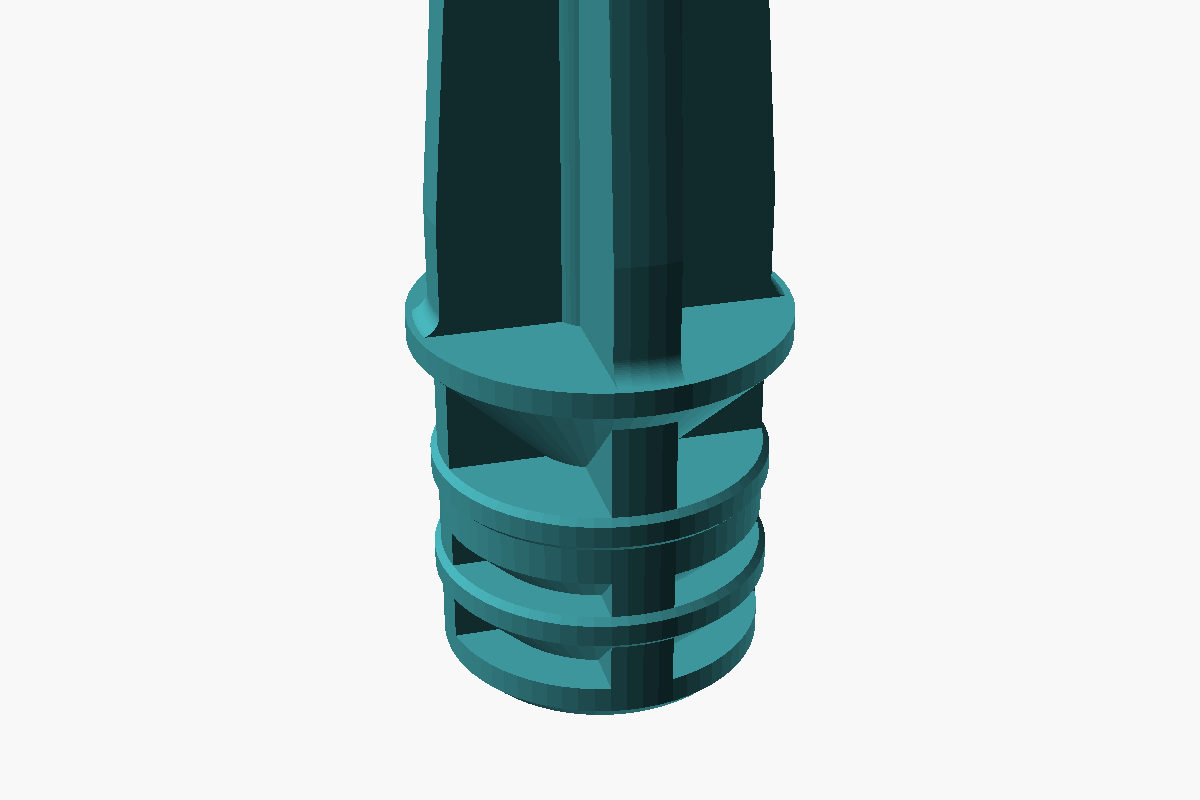
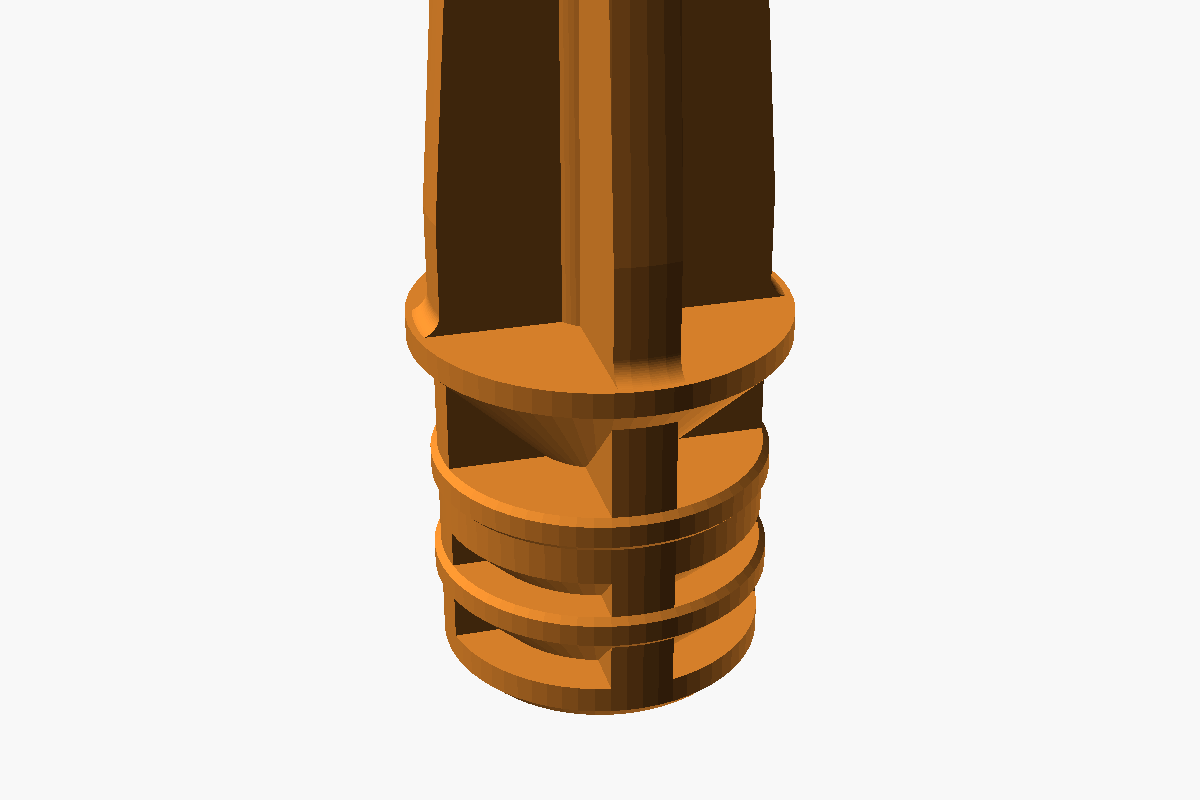
Add a gallery of model variants and render images from exported meshes
- docs/gallery/: spine counts (sectioned 30 mm up so the star reads),
  Support_free on and off seen from below, retention hardware (bare,
  tie band, grip rings, screw hole), 9/15/30 mm sizes at one scale, and
  a 900x900 connector close-up of each preset.
- tools/render_images.py: each variant is exported to STL once, then
  photographed as an imported mesh with one colour. Rendering the .scad
  directly tints faces cut by a subtraction yellow, which reads as a
  defect in a screenshot. Adds a section() step for cutaway views.
- docs/hero.png, presets.png, tips.png re-rendered with the new pipeline.
- README: new Gallery section, layout and contents updated.

Claude-Session: https://claude.ai/code/session_01GJV8Fma19aRLyfQViVbLHp

Changed region(s): [[0.3392, 0.0, 0.6783, 0.9062]]

diff --git a/tools/render_images.py b/tools/render_images.py
@@ -2,9 +2,18 @@
 """
 Regenerate the images in docs/ from the current model.
 
-  docs/hero.png       3/4 view of the connector end, "Round tube 15 mm ID" preset
-  docs/presets.png    the five saved presets side by side, near enough the same scale
-  docs/tips.png       cone, ogive and chisel tips, same length and point
+  docs/hero.png                 3/4 view of the connector end, "Round tube 15 mm ID"
+  docs/presets.png              the five saved presets side by side
+  docs/tips.png                 cone, ogive and chisel tips
+  docs/gallery/spines.png       0 (solid), 2, 3, 4, 6 and 8 spines
+  docs/gallery/support-free.png square and round, Support_free on and off, seen from below
+  docs/gallery/retention.png    bare, tie band, grip rings, screw hole
+  docs/gallery/sizes.png        9, 15 and 30 mm connectors at the same scale
+  docs/gallery/preset-*.png     a close-up of each saved preset
+
+Each variant is rendered to STL first and then photographed as an imported
+mesh. That gives every face one colour; rendering the .scad directly tints
+any surface cut by a subtraction yellow, which reads as a defect in a picture.
 
 Run it after any change that alters geometry, so the README never shows a part
 the .scad no longer makes.
@@ -19,6 +28,7 @@ Requires Python 3.8+, Pillow, OpenSCAD and BOSL2.
 import argparse
 import json
 import os
+import re
 import shutil
 import subprocess
 import sys
@@ -30,26 +40,76 @@ ROOT = os.path.dirname(os.path.dirname(os.path.abspath(__file__)))
 SCAD = os.path.join(ROOT, "yard-spike-parametric.scad")
 PRESETS = os.path.join(ROOT, "yard-spike-parametric.json")
 DOCS = os.path.join(ROOT, "docs")
+GALLERY = os.path.join(DOCS, "gallery")
 SCHEME = "Tomorrow"
+PART = "#d9822b"
 BG = (248, 248, 248)
 INK = (60, 60, 60)
 
+# Cameras are OpenSCAD --camera values: target x,y,z, rotation x,y,z, distance.
+# Rotation x is 0 looking straight down, 90 level, past 90 looking up.
+CONNECTOR = (0, 0, 5, 62, 0, 30, 90)      # 3/4 view of the connector end
+UNDERSIDE = (0, 0, 4, 112, 0, 30, 85)     # looking up at the plates
+STANDING = (0, 0, 0, 80, 0, 30, 0)        # whole part, fitted to the frame
+TIP = (0, 0, 106, 80, 0, 35, 70)          # the last 15 mm
 
-def render(openscad, out, size, camera, preset=None, defines=None, ortho=False, fit=False):
-    cmd = [openscad, "-o", out, "--render", f"--imgsize={size[0]},{size[1]}",
-           f"--camera={','.join(str(c) for c in camera)}", f"--colorscheme={SCHEME}"]
-    if ortho:
-        cmd.append("--projection=o")
-    if fit:
-        cmd += ["--viewall", "--autocenter"]
-    if preset:
-        cmd += ["-p", PRESETS, "-P", preset]
-    for key, value in (defines or {}).items():
-        cmd += ["-D", f"{key}={value}"]
-    cmd.append(SCAD)
-    proc = subprocess.run(cmd, capture_output=True, text=True)
-    if proc.returncode != 0 or not os.path.exists(out):
-        sys.exit(f"OpenSCAD failed on {out}:\n{proc.stdout}{proc.stderr}")
+
+class Renderer:
+    def __init__(self, openscad, tmp):
+        self.openscad = openscad
+        self.tmp = tmp
+        self.meshes = {}
+
+    def run(self, args, what):
+        proc = subprocess.run([self.openscad] + args, capture_output=True, text=True)
+        if proc.returncode != 0:
+            sys.exit(f"OpenSCAD failed on {what}:\n{proc.stdout}{proc.stderr}")
+
+    def mesh(self, preset=None, **defines):
+        """STL for one configuration, rendered once and reused."""
+        key = (preset, tuple(sorted(defines.items())))
+        if key not in self.meshes:
+            out = os.path.join(self.tmp, f"part{len(self.meshes)}.stl")
+            args = ["-o", out]
+            if preset:
+                args += ["-p", PRESETS, "-P", preset]
+            for name, value in defines.items():
+                if isinstance(value, bool):
+                    value = "true" if value else "false"
+                elif isinstance(value, str):
+                    value = f'"{value}"'
+                args += ["-D", f"{name}={value}"]
+            self.run(args + [SCAD], preset or str(defines))
+            self.meshes[key] = out
+        return self.meshes[key]
+
+    def section(self, stl, z):
+        """The same part cut off flat at height z, as a new STL. Cutting in a
+        separate export keeps the cut face the same colour as the rest."""
+        n = len(os.listdir(self.tmp))
+        wrapper = os.path.join(self.tmp, f"cut{n}.scad")
+        out = os.path.join(self.tmp, f"cut{n}.stl")
+        with open(wrapper, "w", encoding="utf-8") as f:
+            f.write(f'intersection() {{ import("{stl.replace(os.sep, "/")}"); '
+                    f"translate([-500, -500, -500]) cube([1000, 1000, {500 + z}]); }}\n")
+        self.run(["-o", out, wrapper], stl)
+        return out
+
+    def shot(self, stl, size, camera, ortho=False, fit=False):
+        """Photograph an STL and return the image."""
+        n = len(os.listdir(self.tmp))
+        wrapper = os.path.join(self.tmp, f"shot{n}.scad")
+        png = os.path.join(self.tmp, f"shot{n}.png")
+        with open(wrapper, "w", encoding="utf-8") as f:
+            f.write(f'color("{PART}") import("{stl.replace(os.sep, "/")}");\n')
+        args = ["-o", png, f"--imgsize={size[0]},{size[1]}",
+                f"--camera={','.join(str(c) for c in camera)}", f"--colorscheme={SCHEME}"]
+        if ortho:
+            args.append("--projection=o")
+        if fit:
+            args += ["--viewall", "--autocenter"]
+        self.run(args + [wrapper], stl)
+        return Image.open(png).convert("RGB")
 
 
 def font(size):
@@ -61,21 +121,27 @@ def font(size):
     return ImageFont.load_default()
 
 
-def strip(tiles, labels, pad=24, label_h=64):
+def strip(tiles, labels, pad=20):
     """Lay tiles out left to right with a caption under each."""
+    f = font(26)
+    lines = max(len(label.split("\n")) for label in labels)
+    label_h = 12 + lines * 32
     w = sum(t.width for t in tiles)
     h = max(t.height for t in tiles) + label_h + pad
     sheet = Image.new("RGB", (w, h), BG)
     draw = ImageDraw.Draw(sheet)
-    f = font(26)
     x = 0
     for tile, label in zip(tiles, labels):
         sheet.paste(tile, (x, 0))
         for i, line in enumerate(label.split("\n")):
             tw = draw.textlength(line, font=f)
-            draw.text((x + (tile.width - tw) / 2, tile.height + 4 + i * 30), line, fill=INK, font=f)
+            draw.text((x + (tile.width - tw) / 2, tile.height + 6 + i * 32), line, fill=INK, font=f)
         x += tile.width
     return sheet
+
+
+def slug(name):
+    return re.sub(r"[^a-z0-9]+", "-", name.lower()).strip("-")
 
 
 def main():
@@ -85,37 +151,72 @@ def main():
     if shutil.which(args.openscad) is None and not os.path.exists(args.openscad):
         sys.exit(f"OpenSCAD not found at '{args.openscad}'. Pass --openscad or set OPENSCAD.")
 
-    os.makedirs(DOCS, exist_ok=True)
+    os.makedirs(GALLERY, exist_ok=True)
     tmp = tempfile.mkdtemp(prefix="spike-img-")
+    r = Renderer(args.openscad, tmp)
+    written = []
+
+    def save(img, *path):
+        out = os.path.join(DOCS, *path)
+        img.save(out)
+        written.append(os.path.relpath(out, ROOT).replace(os.sep, "/"))
+
     try:
-        # Hero: the connector end is where all the detail lives.
-        render(args.openscad, os.path.join(DOCS, "hero.png"), (1200, 800),
-               (0, 0, 5, 62, 0, 30, 90), preset="Round tube 15 mm ID")
-
-        # Presets. All five are within a few mm of the same length, so fitting
-        # each to its tile keeps them at near enough the same scale.
         with open(PRESETS, encoding="utf-8") as f:
-            names = list(json.load(f)["parameterSets"].keys())
-        tiles = []
-        for i, name in enumerate(names):
-            out = os.path.join(tmp, f"preset{i}.png")
-            render(args.openscad, out, (300, 1000), (0, 0, 0, 80, 0, 30, 0),
-                   preset=name, ortho=True, fit=True)
-            tiles.append(Image.open(out).convert("RGB"))
-        labels = [n.replace(", ", ",\n").replace(" 15 mm", "\n15 mm") for n in names]
-        strip(tiles, labels, label_h=70).save(os.path.join(DOCS, "presets.png"))
+            presets = list(json.load(f)["parameterSets"].keys())
 
-        # Tips at stock length and point diameter, looking up at the point.
-        tiles = []
-        for style in ("cone", "ogive", "chisel"):
-            out = os.path.join(tmp, f"tip-{style}.png")
-            render(args.openscad, out, (420, 520), (0, 0, 106, 80, 0, 35, 70),
-                   defines={"Tip_style": f'"{style}"', "Connector_shape": '"circle"'})
-            tiles.append(Image.open(out).convert("RGB"))
-        strip(tiles, ["Cone", "Ogive", "Chisel"], label_h=40).save(os.path.join(DOCS, "tips.png"))
+        # Hero: the connector end is where all the detail lives.
+        save(r.shot(r.mesh("Round tube 15 mm ID"), (1200, 800), CONNECTOR), "hero.png")
+
+        # Presets, whole part. They are all within a few mm of the same
+        # length, so fitting each to its tile keeps them at a common scale.
+        tiles = [r.shot(r.mesh(p), (300, 1000), STANDING, ortho=True, fit=True) for p in presets]
+        labels = [p.replace(", ", ",\n").replace(" 15 mm", "\n15 mm") for p in presets]
+        save(strip(tiles, labels), "presets.png")
+
+        # One close-up per preset.
+        for p in presets:
+            save(r.shot(r.mesh(p), (900, 900), CONNECTOR), "gallery", f"preset-{slug(p)}.png")
+
+        # Tips at stock length and point diameter.
+        tiles = [r.shot(r.mesh(Connector_shape="circle", Tip_style=s), (420, 520), TIP)
+                 for s in ("cone", "ogive", "chisel")]
+        save(strip(tiles, ["Cone", "Ogive", "Chisel"]), "tips.png")
+
+        # Spine counts, cut off 30 mm up so the cross section reads as a star.
+        counts = [0, 2, 3, 4, 6, 8]
+        tiles = [r.shot(r.section(r.mesh(Spines=n), 30), (360, 460), (0, 0, 12, 30, 0, 30, 105))
+                 for n in counts]
+        labels = ["Solid\nSpines = 0"] + [f"{n} spines\n " for n in counts[1:]]
+        save(strip(tiles, labels), "gallery", "spines.png")
+
+        # Support_free on and off, looking up at the undersides.
+        combos = [("square", True), ("square", False), ("circle", True), ("circle", False)]
+        tiles = [r.shot(r.mesh(Connector_shape=s, Support_free=sf, Tie_band=False), (420, 460), UNDERSIDE)
+                 for s, sf in combos]
+        labels = [f"{'Square' if s == 'square' else 'Round'}\nSupport_free {'on' if sf else 'off'}"
+                  for s, sf in combos]
+        save(strip(tiles, labels), "gallery", "support-free.png")
+
+        # Retention hardware, building up on a round connector.
+        steps = [
+            ("Bare\n ", dict(Tie_band=False)),
+            ("Tie band\n ", dict()),
+            ("Grip rings\n+ 0.3 fit", dict(Grip_rings=2, Fit_clearance=0.3)),
+            ("Screw hole\n+ rings", dict(Screw_hole=3.5, Grip_rings=2, Connector_depth=18, Fit_clearance=0.35)),
+        ]
+        tiles = [r.shot(r.mesh(Connector_shape="circle", **d), (420, 460), CONNECTOR) for _, d in steps]
+        save(strip(tiles, [label for label, _ in steps]), "gallery", "retention.png")
+
+        # Sizes at one fixed scale, so the difference is real.
+        sizes = [9, 15, 30]
+        tiles = [r.shot(r.mesh(Connector_size=s), (340, 1000), (0, 0, 54, 80, 0, 30, 330), ortho=True)
+                 for s in sizes]
+        save(strip(tiles, [f"{s} mm connector" for s in sizes]), "gallery", "sizes.png")
     finally:
         shutil.rmtree(tmp, ignore_errors=True)
-    print("wrote docs/hero.png, docs/presets.png, docs/tips.png")
+
+    print("wrote\n  " + "\n  ".join(written))
 
 
 if __name__ == "__main__":

diff --git a/README.md b/README.md
@@ -13,7 +13,7 @@ yard-spike-parametric.scad   the model
 yard-spike-parametric.json   five saved presets, auto-loaded by OpenSCAD
 tools/verify.py              renders every configuration and measures the mesh
 tools/render_images.py       regenerates the pictures in docs/
-docs/                        images used by this README
+docs/                        images used by this README, plus a gallery of variants
 LICENSE                      CC BY-NC 4.0
 ```
 
@@ -24,6 +24,7 @@ The `.scad` and `.json` have to share a stem. That is how OpenSCAD finds the pre
 ## Contents
 
 - [What it makes](#what-it-makes)
+- [Gallery](#gallery)
 - [Quick start](#quick-start)
 - [Requirements](#requirements)
 - [Presets](#presets)
@@ -52,6 +53,30 @@ A spike that drives into soil, with a connector on the other end that plugs into
 - **Guard rails.** Every bad input combination fails with a sentence you can read, not a library assertion.
 
 ![The five saved presets side by side](docs/presets.png)
+
+---
+
+## Gallery
+
+Every picture here is rendered from the current `.scad` by `tools/render_images.py`, so none of them can drift from what the model actually makes.
+
+**Spine count.** Cut off 30 mm up to show the cross section. `Spines = 0` gives a solid taper; 2 to 8 is the useful range.
+
+![Cross sections with 0, 2, 3, 4, 6 and 8 spines](docs/gallery/spines.png)
+
+**Support free mode, seen from below.** With it on, a 45° ramp closes each flute under the collar. With it off, the collar spans the open flutes and the printer has to bridge them.
+
+![Square and round connectors from below with Support_free on and off](docs/gallery/support-free.png)
+
+**Retention hardware.** A tie band across the middle of the connector, grip rings that bite the tube wall, and a teardrop screw hole through the band.
+
+![Round connector bare, with a tie band, with grip rings, and with a screw hole](docs/gallery/retention.png)
+
+**Size.** 9, 15 and 30 mm connectors at the same scale, everything else at its default. The core, spine thickness and taper all follow `Connector_size`.
+
+![9, 15 and 30 mm connectors side by side](docs/gallery/sizes.png)
+
+**Tip profiles** are compared under [design notes](#tip-profiles), and there is a close-up of each preset's connector end in [`docs/gallery/`](docs/gallery/).
 
 ---
 
@@ -392,6 +417,7 @@ Third party: [BOSL2](https://github.com/BelfrySCAD/BOSL2) is included at build t
 
 ### Unreleased
 - Added `LICENSE`, `tools/verify.py`, `tools/render_images.py` and rendered images for the README.
+- Added a gallery of variants: spine counts, support free mode, retention hardware, sizes, and a close-up of each preset. Images are now rendered from an exported mesh, so every face is one colour.
 - README figures re-measured: tip-profile volumes now reflect the default `Support_free = true`, the bridged-area and material-cost figures state which plates they count, and the Original-shape match is qualified to `Roundness = 8`.
 
 ### v5
